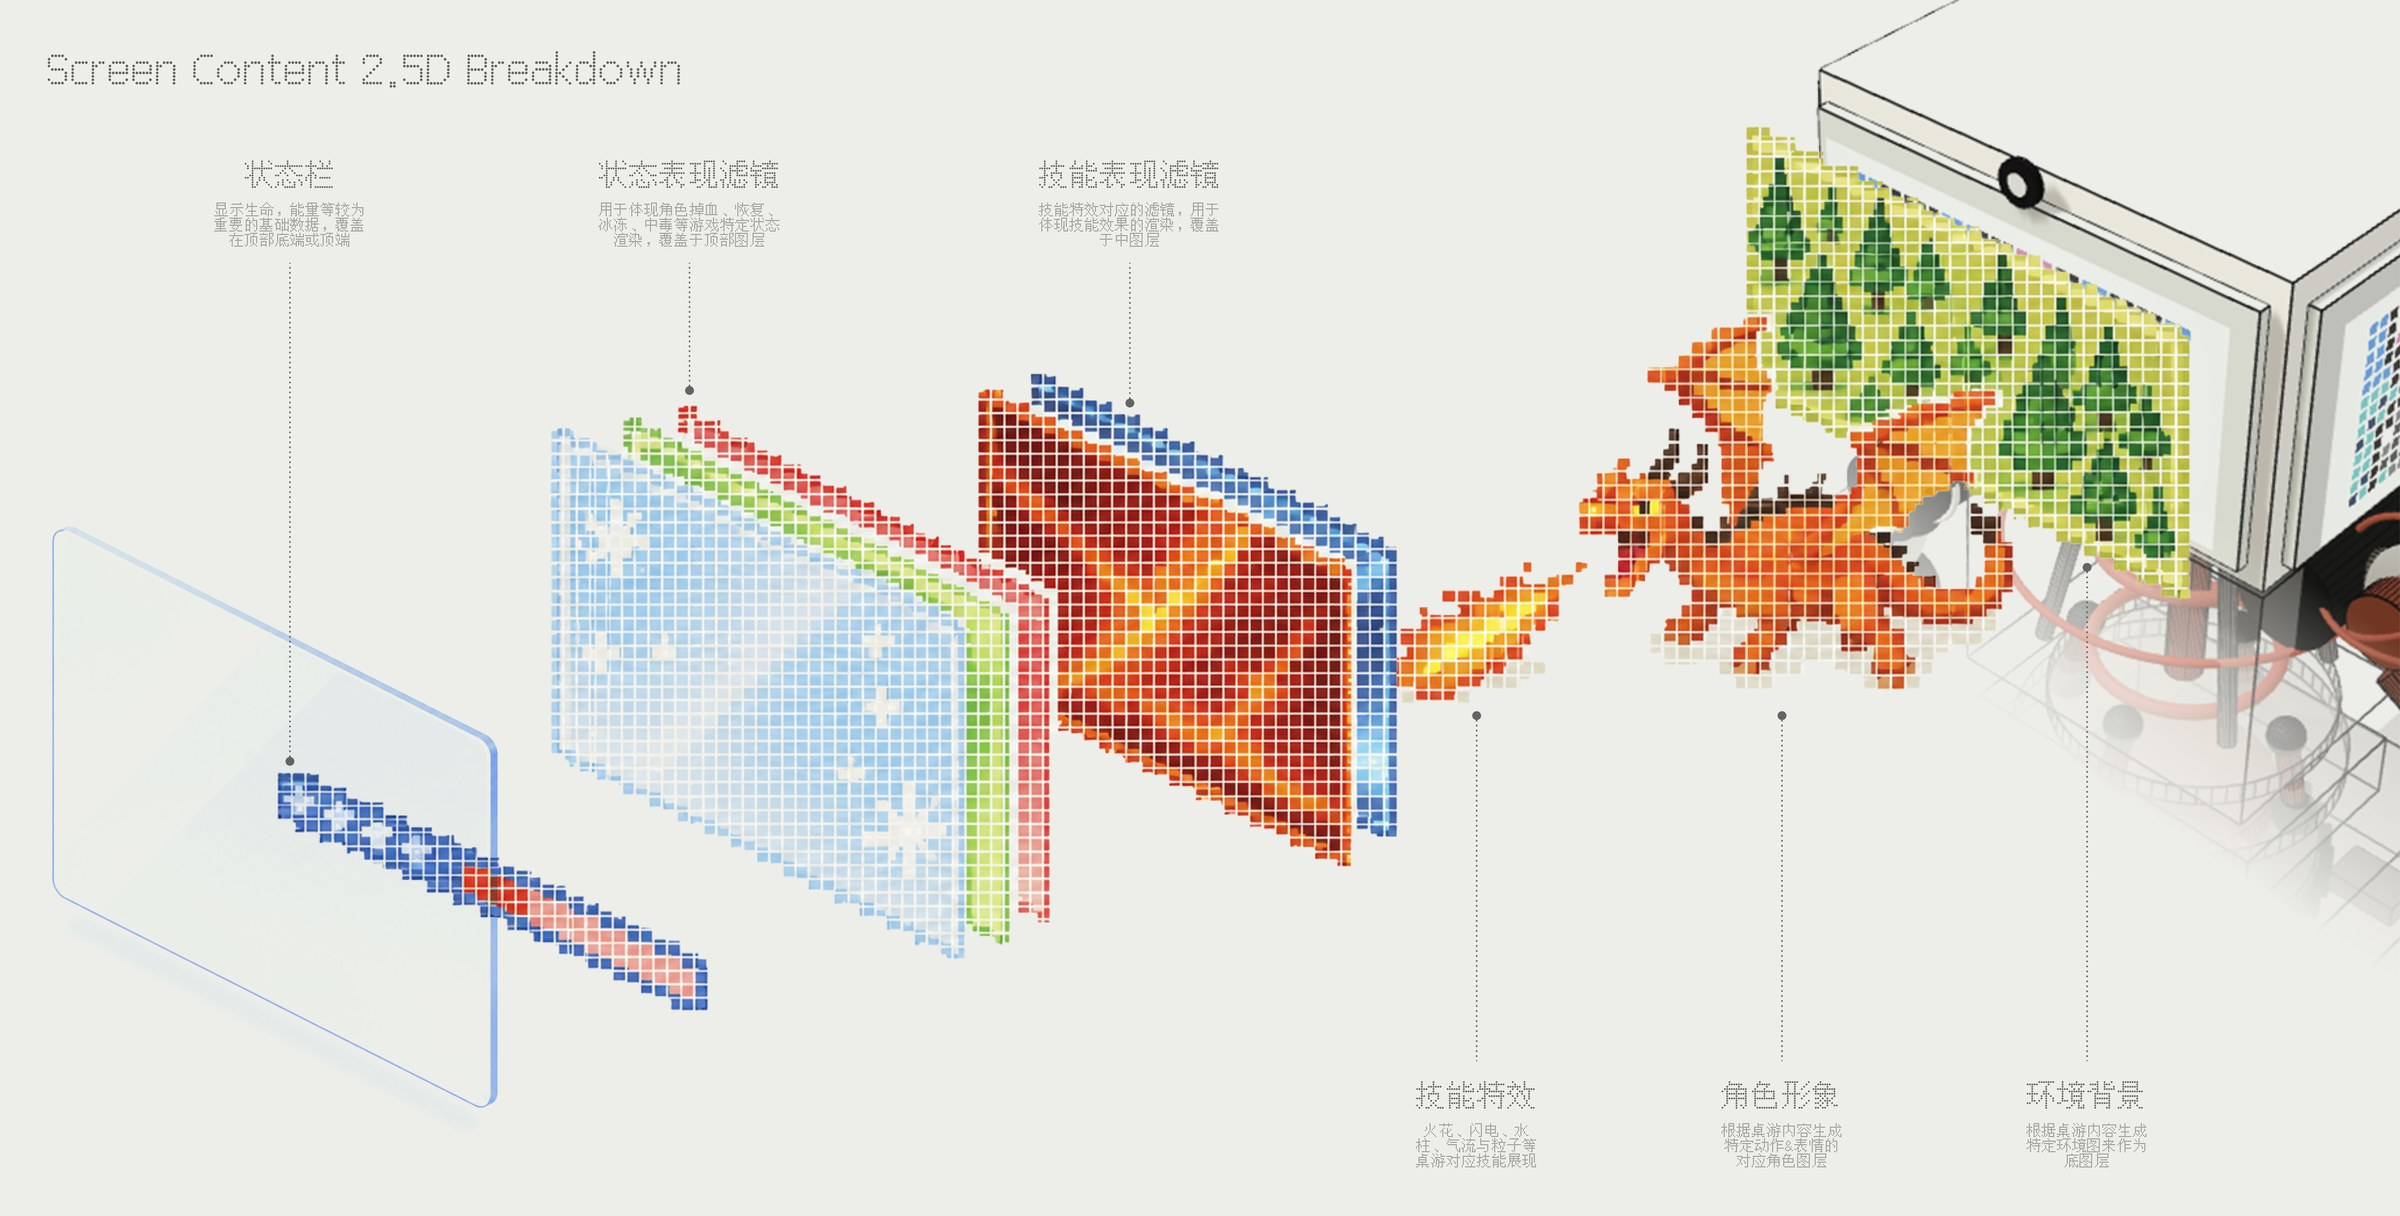
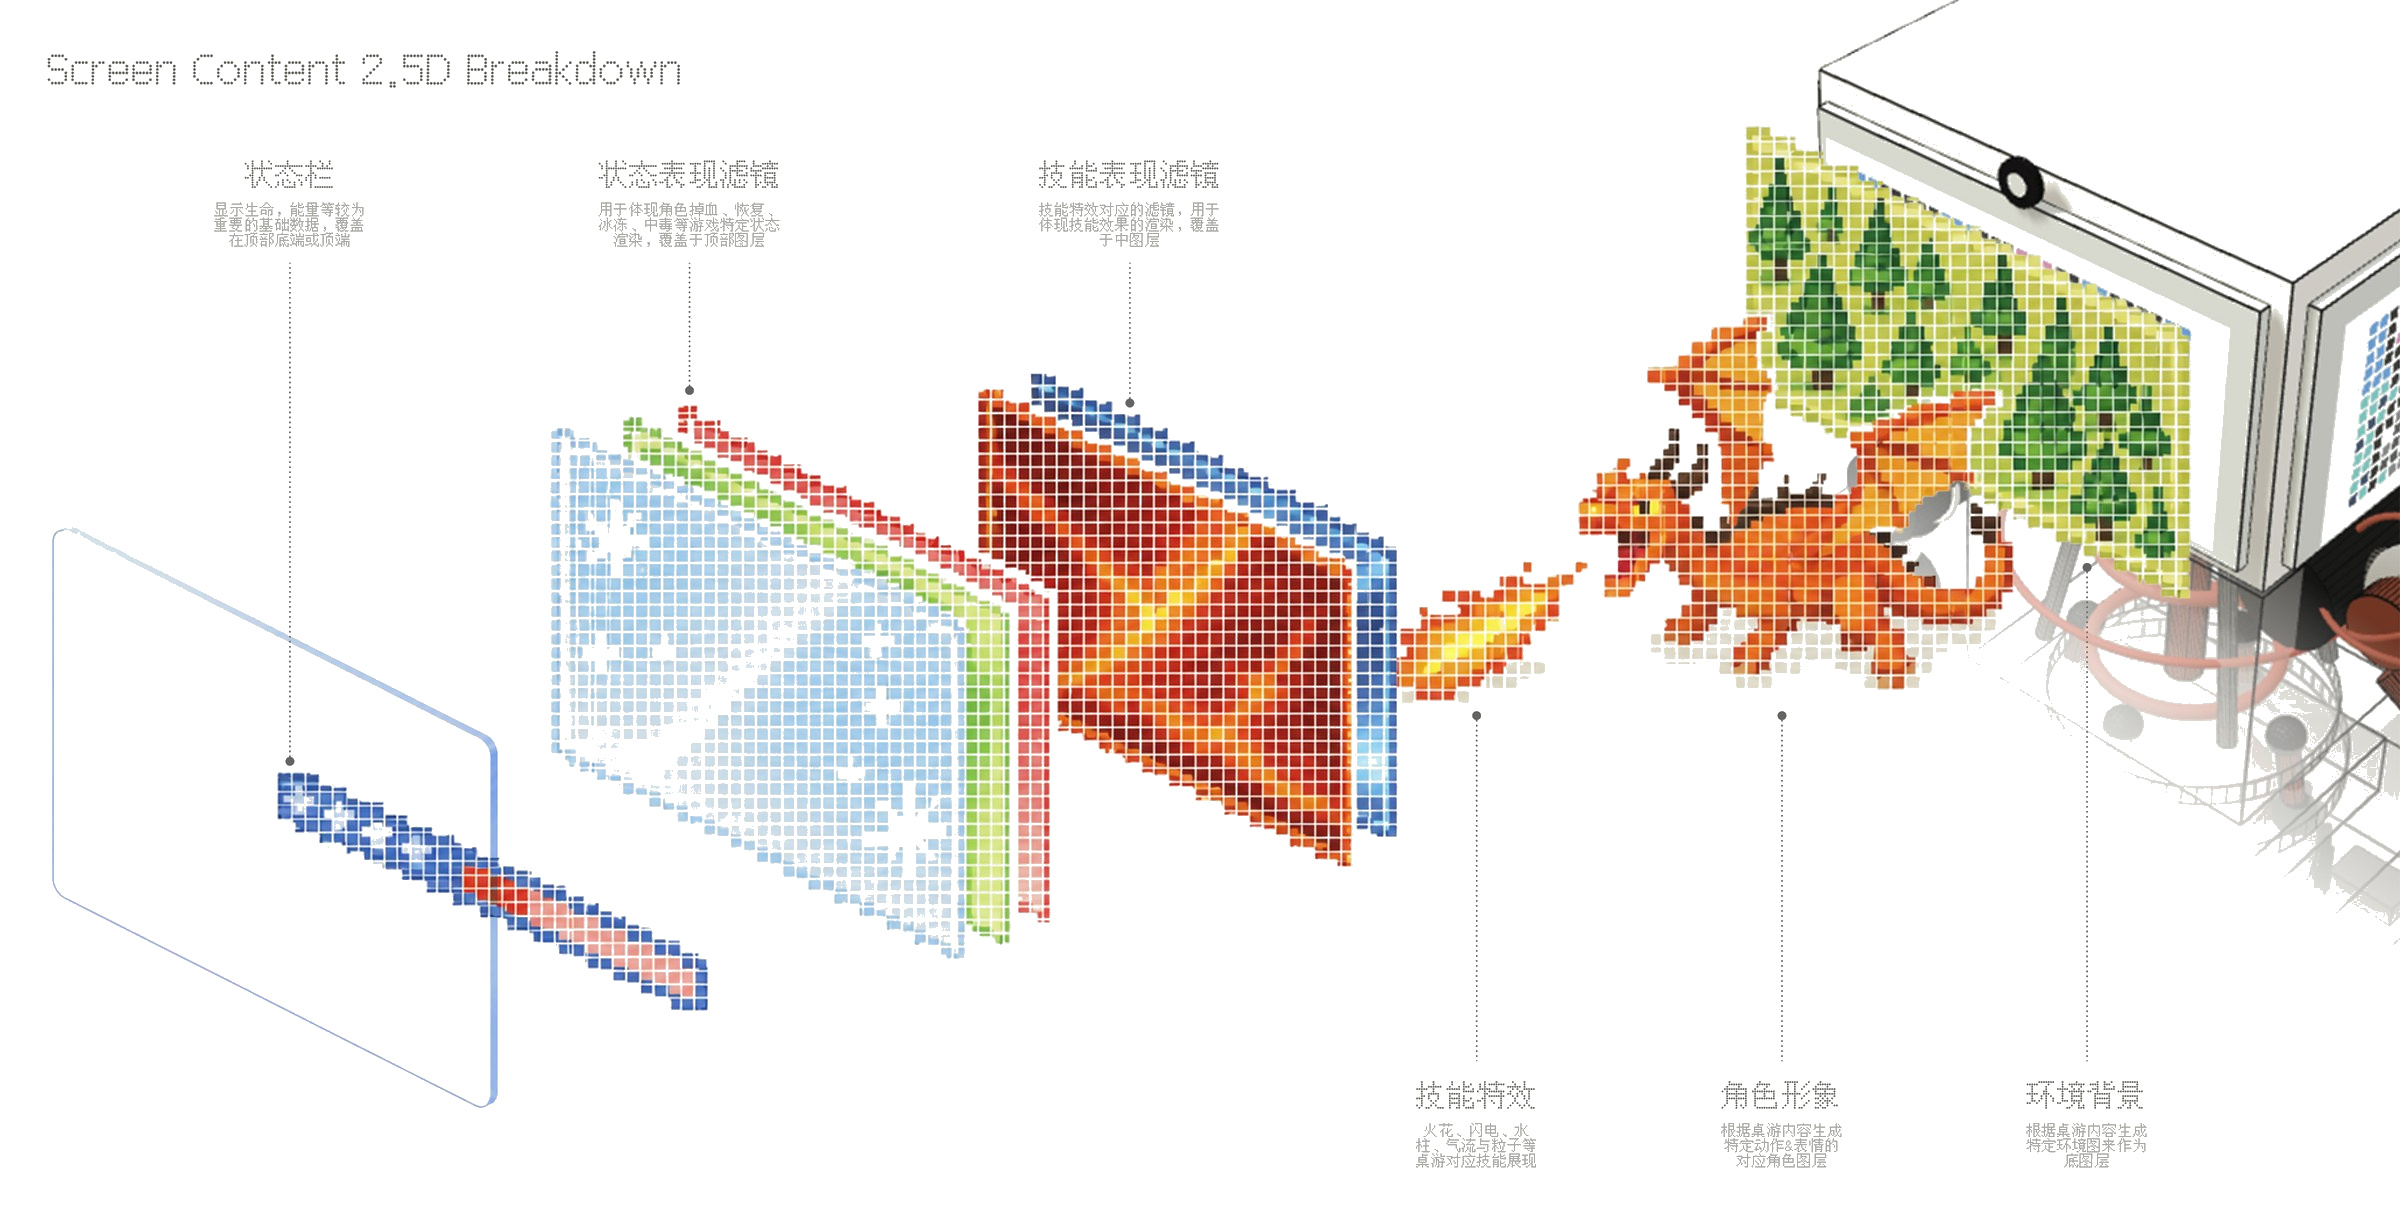
Make the screen diagram background pure white.
Replace public/ux-breakdown.jpg with the whitened diagram and set the frame behind it to #fff.

diff --git a/src/index.css b/src/index.css
@@ -116,7 +116,7 @@ a { color: inherit; text-decoration: none; }
 .ux-frame {
   width: 100%;
   aspect-ratio: 2400 / 1216;
-  background: #f3f3f1;
+  background: #fff;
 }
 .ux-frame img {
   display: block;
